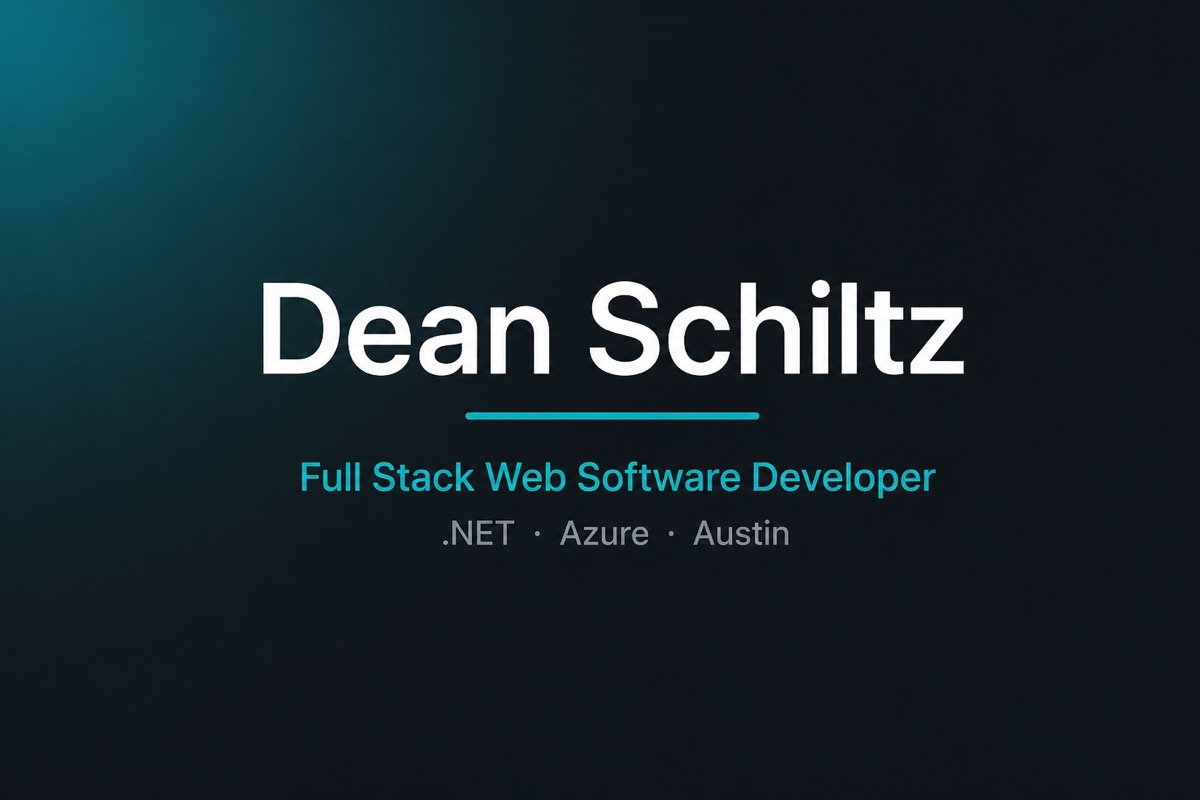
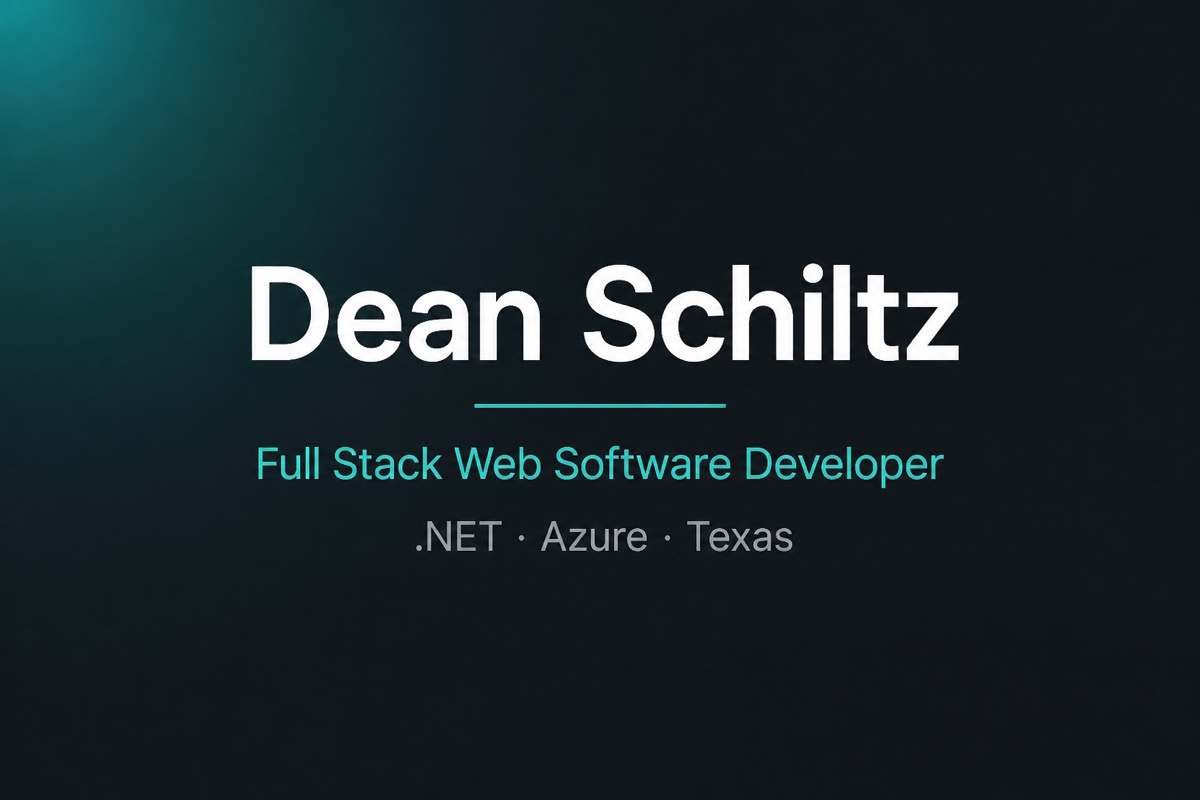
Refactor resume handling: remove public/resume.pdf, update profile and navigation to use mailto links for resume requests, and revise related metadata for consistency.

diff --git a/src/components/Nav.tsx b/src/components/Nav.tsx
@@ -8,13 +8,17 @@ import { ThemeToggle } from './ThemeToggle'
 import { cn } from '../utils/cn'
 import { usePrefersReducedMotion } from '../hooks/usePrefersReducedMotion'
 
+const menuTransition = {
+  duration: 0.28,
+  ease: [0.22, 1, 0.36, 1] as const,
+}
+
 export function Nav() {
   const [open, setOpen] = useState(false)
   const [scrolled, setScrolled] = useState(false)
   const menuId = useId()
   const headerRef = useRef<HTMLElement>(null)
   const menuButtonRef = useRef<HTMLButtonElement>(null)
-  const [instantMenuClose, setInstantMenuClose] = useState(false)
   const prefersReducedMotion = usePrefersReducedMotion()
 
   const closeMenu = useCallback(() => {
@@ -28,7 +32,7 @@ export function Nav() {
   }, [])
 
   const scrollToSection = useCallback(
-    (href: string, offset = getNavOffset()) => {
+    (href: string) => {
       const targetId = href.startsWith('#') ? href.slice(1) : href
       const target = document.getElementById(targetId)
       if (!target) {
@@ -36,7 +40,7 @@ export function Nav() {
       }
 
       const top =
-        target.getBoundingClientRect().top + window.scrollY - offset
+        target.getBoundingClientRect().top + window.scrollY - getNavOffset()
 
       window.scrollTo({
         top,
@@ -49,25 +53,12 @@ export function Nav() {
 
   const navigateToSection = useCallback(
     (href: string) => {
-      // Capture full header height while the menu is still open. After the menu
-      // closes, the page shifts up by that extra height — using it here keeps
-      // the section aligned under the sticky bar without waiting for the animation.
-      const offset =
-        open && headerRef.current
-          ? headerRef.current.offsetHeight
-          : getNavOffset()
-
-      setInstantMenuClose(open)
       closeMenu()
       menuButtonRef.current?.focus()
-      window.requestAnimationFrame(() => scrollToSection(href, offset))
+      window.requestAnimationFrame(() => scrollToSection(href))
     },
-    [closeMenu, getNavOffset, open, scrollToSection],
+    [closeMenu, scrollToSection],
   )
-
-  const onMenuExitComplete = useCallback(() => {
-    setInstantMenuClose(false)
-  }, [])
 
   useEffect(() => {
     const onScroll = () => setScrolled(window.scrollY > 24)
@@ -125,6 +116,8 @@ export function Nav() {
     }
   }, [open, closeMenu])
 
+  const motionOff = prefersReducedMotion
+
   return (
     <header
       ref={headerRef}
@@ -135,7 +128,7 @@ export function Nav() {
     >
       <Container
         data-nav-bar
-        className="flex h-16 items-center justify-between gap-4"
+        className="relative z-20 flex h-16 items-center justify-between gap-4"
       >
         <a
           href="#top"
@@ -202,47 +195,58 @@ export function Nav() {
         </div>
       </Container>
 
-      <AnimatePresence onExitComplete={onMenuExitComplete}>
+      <AnimatePresence>
         {open ? (
-          <m.div
-            id={menuId}
-            className="border-line bg-canvas relative z-10 border-t md:hidden"
-            initial={prefersReducedMotion ? false : { opacity: 0, y: -8 }}
-            animate={{ opacity: 1, y: 0 }}
-            exit={
-              prefersReducedMotion || instantMenuClose
-                ? { opacity: 0 }
-                : { opacity: 0, y: -8 }
-            }
-            transition={{
-              duration:
-                prefersReducedMotion || instantMenuClose ? 0 : 0.2,
-            }}
-          >
-            <nav aria-label="Mobile" className="flex flex-col px-5 py-4">
-              {navItems.map((item) => (
-                <a
-                  key={item.id}
-                  href={item.href}
-                  className="text-ink min-h-11 py-3 text-base"
-                  onClick={(event) => {
-                    event.preventDefault()
-                    navigateToSection(item.href)
-                  }}
+          <>
+            <m.button
+              type="button"
+              aria-label="Close menu"
+              className="fixed inset-0 z-10 bg-black/25 md:hidden"
+              initial={motionOff ? false : { opacity: 0 }}
+              animate={{ opacity: 1 }}
+              exit={{ opacity: 0 }}
+              transition={motionOff ? { duration: 0 } : menuTransition}
+              onClick={closeMenu}
+            />
+            <m.div
+              id={menuId}
+              className="border-line bg-canvas absolute inset-x-0 top-full z-10 origin-top border-b shadow-[0_12px_32px_rgba(0,0,0,0.12)] md:hidden"
+              initial={
+                motionOff ? false : { opacity: 0, y: -12, scaleY: 0.96 }
+              }
+              animate={{ opacity: 1, y: 0, scaleY: 1 }}
+              exit={
+                motionOff
+                  ? { opacity: 0 }
+                  : { opacity: 0, y: -12, scaleY: 0.96 }
+              }
+              transition={motionOff ? { duration: 0 } : menuTransition}
+            >
+              <nav aria-label="Mobile" className="flex flex-col px-5 py-4">
+                {navItems.map((item) => (
+                  <a
+                    key={item.id}
+                    href={item.href}
+                    className="text-ink min-h-11 py-3 text-base"
+                    onClick={(event) => {
+                      event.preventDefault()
+                      navigateToSection(item.href)
+                    }}
+                  >
+                    {item.label}
+                  </a>
+                ))}
+                <Button
+                  href={profile.resumePath}
+                  variant="secondary"
+                  className="mt-2"
+                  onClick={closeMenu}
                 >
-                  {item.label}
-                </a>
-              ))}
-              <Button
-                href={profile.resumePath}
-                variant="secondary"
-                className="mt-2"
-                onClick={closeMenu}
-              >
-                Ask for Resume
-              </Button>
-            </nav>
-          </m.div>
+                  Ask for Resume
+                </Button>
+              </nav>
+            </m.div>
+          </>
         ) : null}
       </AnimatePresence>
     </header>

diff --git a/src/data/profile.ts b/src/data/profile.ts
@@ -4,6 +4,8 @@ import type { Profile } from '../types/portfolio'
 const siteUrl = 'https://deanschiltz.com'
 const email = 'deandschiltz@gmail.com'
 
+const contactMailto = `mailto:${email}?subject=${encodeURIComponent('Job opportunity')}`
+
 const resumeAskMailto = `mailto:${email}?subject=${encodeURIComponent('Resume request')}&body=${encodeURIComponent("Hello Dean Schiltz,\n\nI would like a copy of your resume.\n\nThank you.")}`
 
 export const profile: Profile = {
@@ -14,16 +16,17 @@ export const profile: Profile = {
   titleHighlight: 'Software Developer',
   heroGreeting: "Hello, I'm Dean Schiltz",
   focus: 'Full Stack Web Software Developer at General Motors',
-  summary: 'Austin, Texas',
+  summary: 'Texas',
   about: [
     'Passionate about software development and building purposeful applications, I have spent the last 7 years as a Full Stack Software Engineer, designing, developing, and delivering scalable, high-performance web applications and APIs. Throughout my career, I have built strong partnerships across product teams while focusing on scalable architectures, AI-enhanced solutions, and cloud-based development.',
     'Currently, I am a Full Stack Software Developer at General Motors, where I enhance full-stack web applications for the Centralized Asset Lifecycle Management System (CALMS) using C#, ASP.NET Core, SQL Server, jQuery, HTML, CSS, and Telerik Kendo UI. I also co-lead working sessions with business stakeholders to gather requirements, prioritize application enhancements, and ensure solutions align with business objectives.',
   ],
-  location: 'Austin, Texas',
+  location: 'Texas',
   email,
   siteUrl,
   sourceRepoUrl: 'https://github.com/deanschiltz/dev-portfolio',
-  // PDF stays in public/resume.pdf for your use; site CTAs open a mailto request.
+  contactPath: contactMailto,
+  // Site CTAs open a mailto resume request (no PDF is deployed).
   resumePath: resumeAskMailto,
   headshot,
   headshotAlt: 'Portrait of Dean Schiltz in a navy suit',

diff --git a/index.html b/index.html
@@ -6,7 +6,7 @@
     <title>Dean Schiltz — Full Stack Web Software Developer</title>
     <meta
       name="description"
-      content="Dean Schiltz, Full Stack Web Software Developer at General Motors in Austin, Texas."
+      content="Dean Schiltz, Full Stack Web Software Developer at General Motors in Texas."
     />
     <link
       rel="canonical"
@@ -21,7 +21,7 @@
     />
     <meta
       property="og:description"
-      content="Full Stack Web Software Developer at General Motors in Austin, Texas."
+      content="Full Stack Web Software Developer at General Motors in Texas."
     />
     <meta
       property="og:url"
@@ -38,7 +38,7 @@
     />
     <meta
       name="twitter:description"
-      content="Full Stack Web Software Developer at General Motors in Austin, Texas."
+      content="Full Stack Web Software Developer at General Motors in Texas."
     />
     <meta
       name="twitter:image"
@@ -55,7 +55,6 @@
         "email": "mailto:deandschiltz@gmail.com",
         "address": {
           "@type": "PostalAddress",
-          "addressLocality": "Austin",
           "addressRegion": "TX",
           "addressCountry": "US"
         },

diff --git a/src/data/experience.ts b/src/data/experience.ts
@@ -5,7 +5,7 @@ export const experience: Experience[] = [
     id: 'gm-fullstack',
     company: 'General Motors',
     position: 'Full Stack Web Software Developer',
-    location: 'Austin, Texas',
+    location: 'Texas',
     start: 'Sep 2021',
     end: 'Present',
     description: [
@@ -16,7 +16,7 @@ export const experience: Experience[] = [
     id: 'gm-sdet',
     company: 'General Motors',
     position: 'Software Developer Engineer - QA',
-    location: 'Austin, Texas',
+    location: 'Texas',
     start: 'Jun 2019',
     end: 'Sep 2021',
     description: [

diff --git a/src/sections/Hero.tsx b/src/sections/Hero.tsx
@@ -94,7 +94,7 @@ export function Hero() {
               delay: prefersReducedMotion ? 0 : 0.15,
             }}
           >
-            <Button href="#contact">Contact Me</Button>
+            <Button href={profile.contactPath}>Contact Me</Button>
             <Button href={profile.resumePath} variant="secondary">
               Ask for Resume
             </Button>

diff --git a/src/types/portfolio.ts b/src/types/portfolio.ts
@@ -12,6 +12,7 @@ export interface Profile {
   email: string
   siteUrl: string
   sourceRepoUrl: string
+  contactPath: string
   resumePath: string
   headshot: string
   headshotAlt: string

diff --git a/src/data/social.ts b/src/data/social.ts
@@ -15,6 +15,6 @@ export const socialLinks: SocialLink[] = [
   {
     id: 'email',
     label: 'Email',
-    href: `mailto:${profile.email}`,
+    href: profile.contactPath,
   },
 ]

diff --git a/README.md b/README.md
@@ -30,12 +30,12 @@ src/
   assets/images  Headshot and optional project screenshots
   hooks/         Theme and reduced-motion helpers
   styles/        Color tokens
-public/          Resume PDF, OG image, robots.txt, sitemap.xml, CNAME
+public/          OG image, robots.txt, sitemap.xml, CNAME
 ```
 
 - Add a project: append an object in `src/data/projects.ts`.
 - Replace the headshot: drop a **transparent PNG** at `src/assets/images/headshot.png`, update the import in `src/data/profile.ts`, and set `headshotAlt`.
-- Replace the resume PDF (kept offline for you): put it at `public/resume.pdf`. Site buttons use “Ask for Resume” and open a mailto draft instead of linking the file.
+- Resume is request-only via mailto (“Ask for Resume”); do **not** put a PDF in `public/` (it would be publicly downloadable).
 - Change the public URL: update `siteUrl` in `src/data/profile.ts`, then the same value in `index.html`, `public/robots.txt`, `public/sitemap.xml`, and `public/CNAME`.
 
 ## Prerequisites
